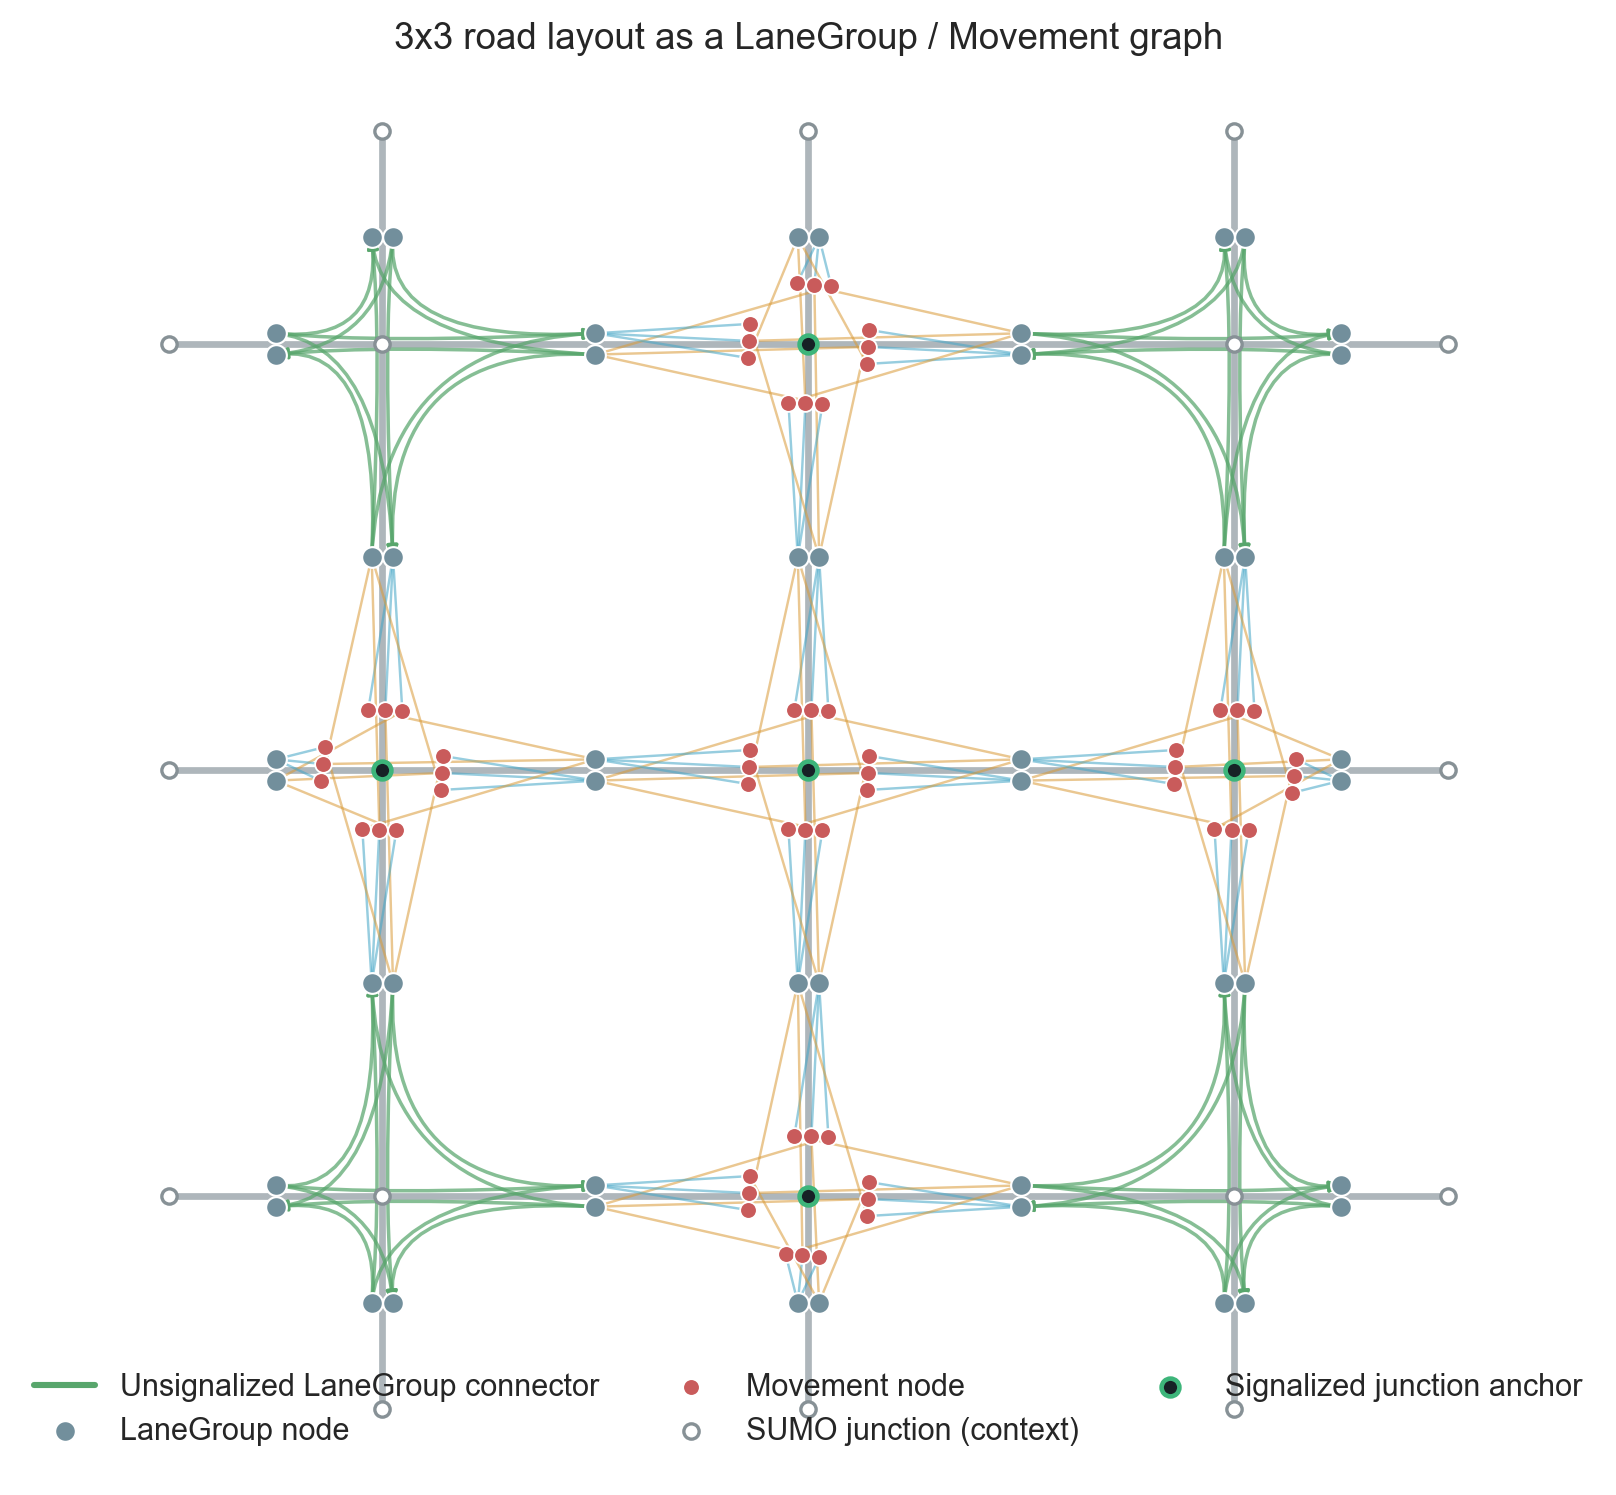
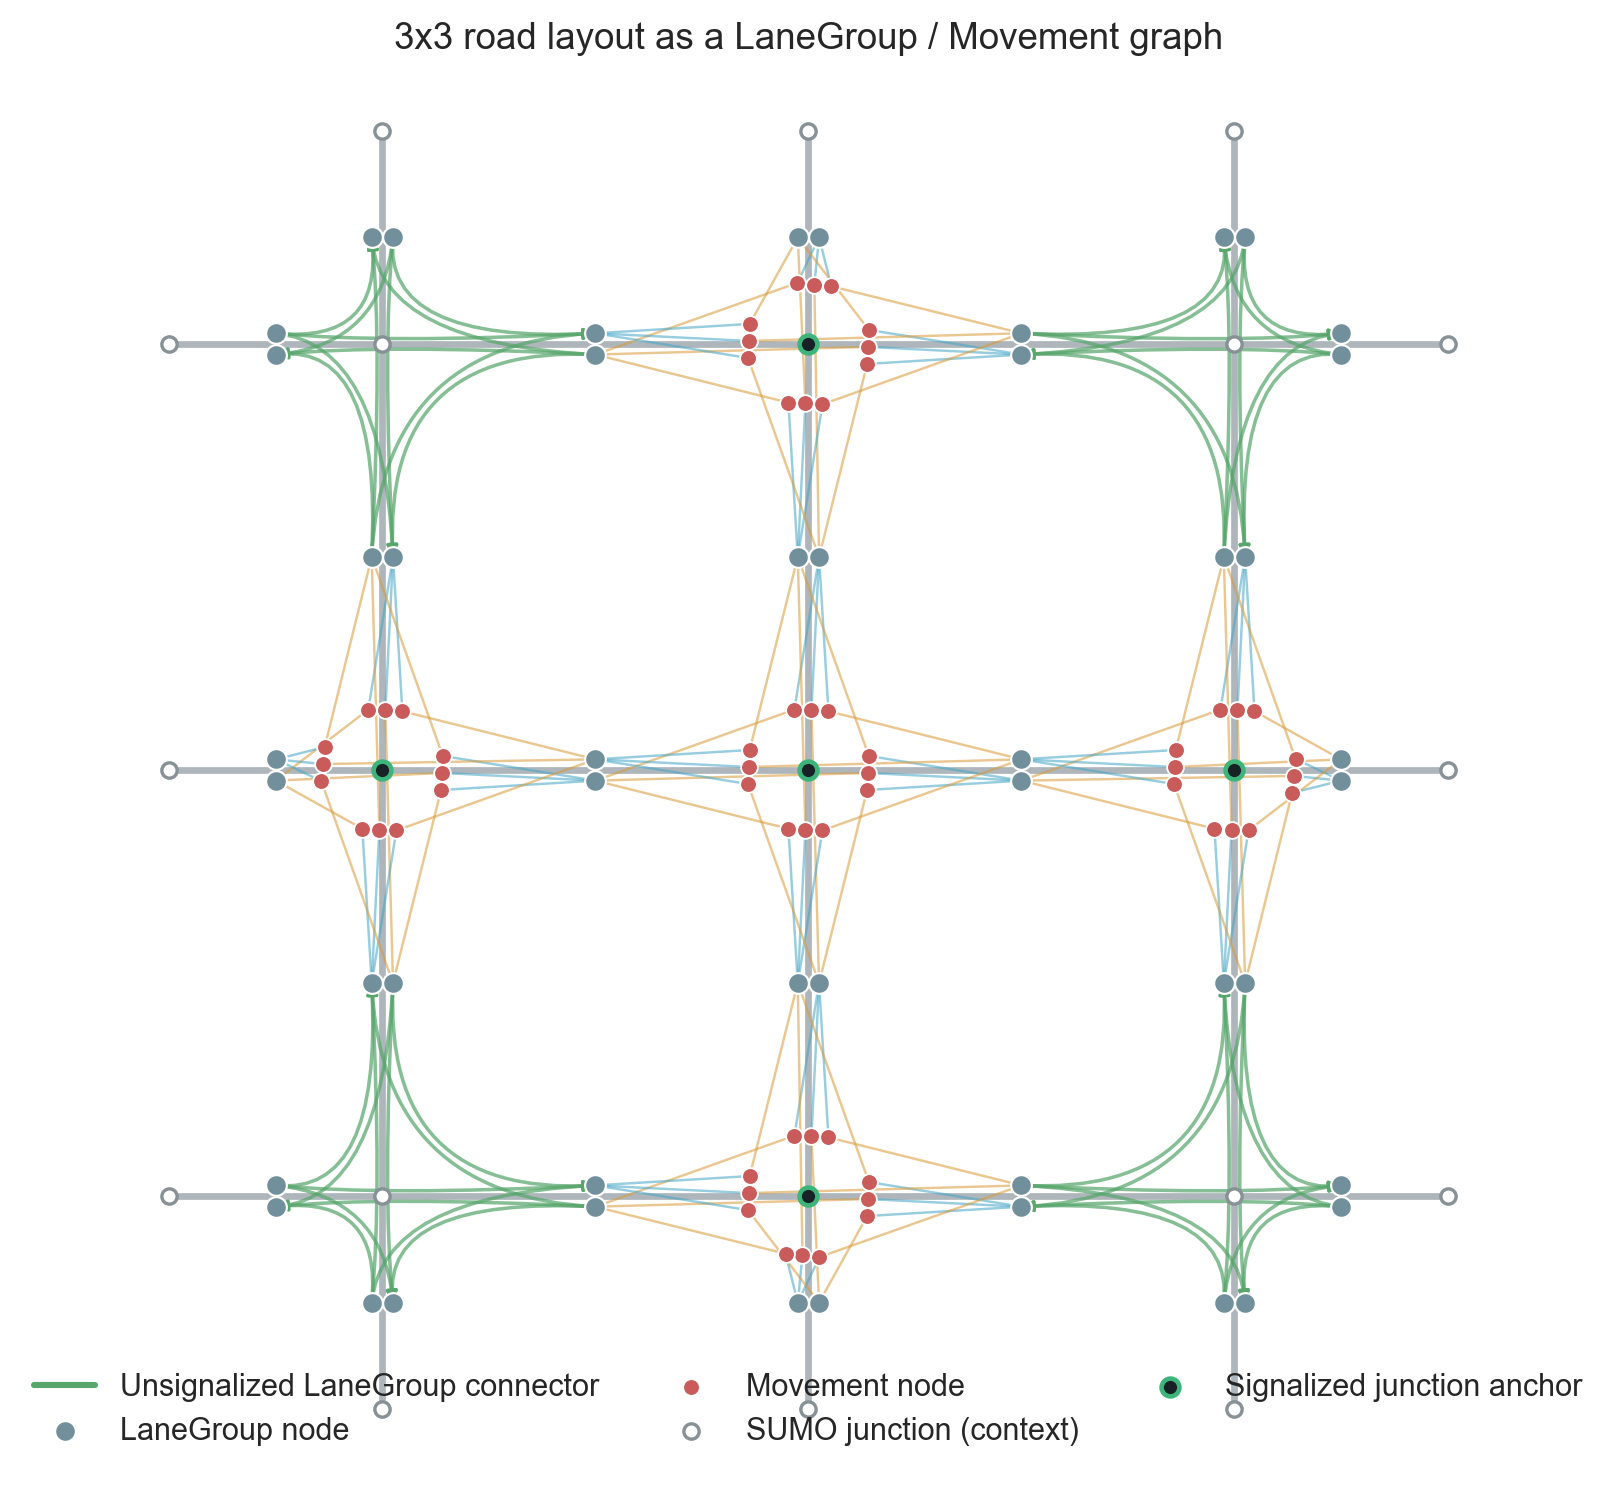
Order movement nodes by output lane position

diff --git a/docs/assets/movement-graph-3x3.html b/docs/assets/movement-graph-3x3.html
@@ -218,7 +218,14 @@ function movementPosition(movement) {
   const unitY = dy / length;
   const sameInput = movementsByTls
     .get(movement.traffic_light_id)
-    .filter(item => item.input_lane_group_id === movement.input_lane_group_id);
+    .filter(item => item.input_lane_group_id === movement.input_lane_group_id)
+    .sort((left, right) => {
+      const leftOutput = lanePosition(laneById.get(left.output_lane_group_id));
+      const rightOutput = lanePosition(laneById.get(right.output_lane_group_id));
+      const leftProjection = (leftOutput.x - center.x) * -unitY + (leftOutput.y - center.y) * unitX;
+      const rightProjection = (rightOutput.x - center.x) * -unitY + (rightOutput.y - center.y) * unitX;
+      return leftProjection - rightProjection || left.movement_id - right.movement_id;
+    });
   const inputIndex = sameInput.findIndex(item => item.movement_id === movement.movement_id);
   const tangentOffset = (inputIndex - (sameInput.length - 1) / 2) * 5;
   const radius = sameInput.length > 3 ? 18 : 15;

diff --git a/scripts/visualize_movement_graph.py b/scripts/visualize_movement_graph.py
@@ -271,7 +271,14 @@ function movementPosition(movement) {{
   const unitY = dy / length;
   const sameInput = movementsByTls
     .get(movement.traffic_light_id)
-    .filter(item => item.input_lane_group_id === movement.input_lane_group_id);
+    .filter(item => item.input_lane_group_id === movement.input_lane_group_id)
+    .sort((left, right) => {{
+      const leftOutput = lanePosition(laneById.get(left.output_lane_group_id));
+      const rightOutput = lanePosition(laneById.get(right.output_lane_group_id));
+      const leftProjection = (leftOutput.x - center.x) * -unitY + (leftOutput.y - center.y) * unitX;
+      const rightProjection = (rightOutput.x - center.x) * -unitY + (rightOutput.y - center.y) * unitX;
+      return leftProjection - rightProjection || left.movement_id - right.movement_id;
+    }});
   const inputIndex = sameInput.findIndex(item => item.movement_id === movement.movement_id);
   const tangentOffset = (inputIndex - (sameInput.length - 1) / 2) * 5;
   const radius = sameInput.length > 3 ? 18 : 15;

diff --git a/scripts/plot_movement_graph_examples.py b/scripts/plot_movement_graph_examples.py
@@ -149,7 +149,17 @@ def positions_by_movement(
             length = max(1.0, hypot(direction_x, direction_y))
             unit_x = direction_x / length
             unit_y = direction_y / length
-            for index, movement in enumerate(same_input):
+            ordered_movements = tuple(
+                sorted(
+                    same_input,
+                    key=lambda movement: (
+                        (lane_positions[movement.output_lane_group_id][0] - center_x) * -unit_y
+                        + (lane_positions[movement.output_lane_group_id][1] - center_y) * unit_x,
+                        movement.movement_id,
+                    ),
+                )
+            )
+            for index, movement in enumerate(ordered_movements):
                 tangent_offset = (index - (len(same_input) - 1) / 2) * 8.0
                 positions[movement.movement_id] = (
                     center_x + unit_x * radius - unit_y * tangent_offset,
